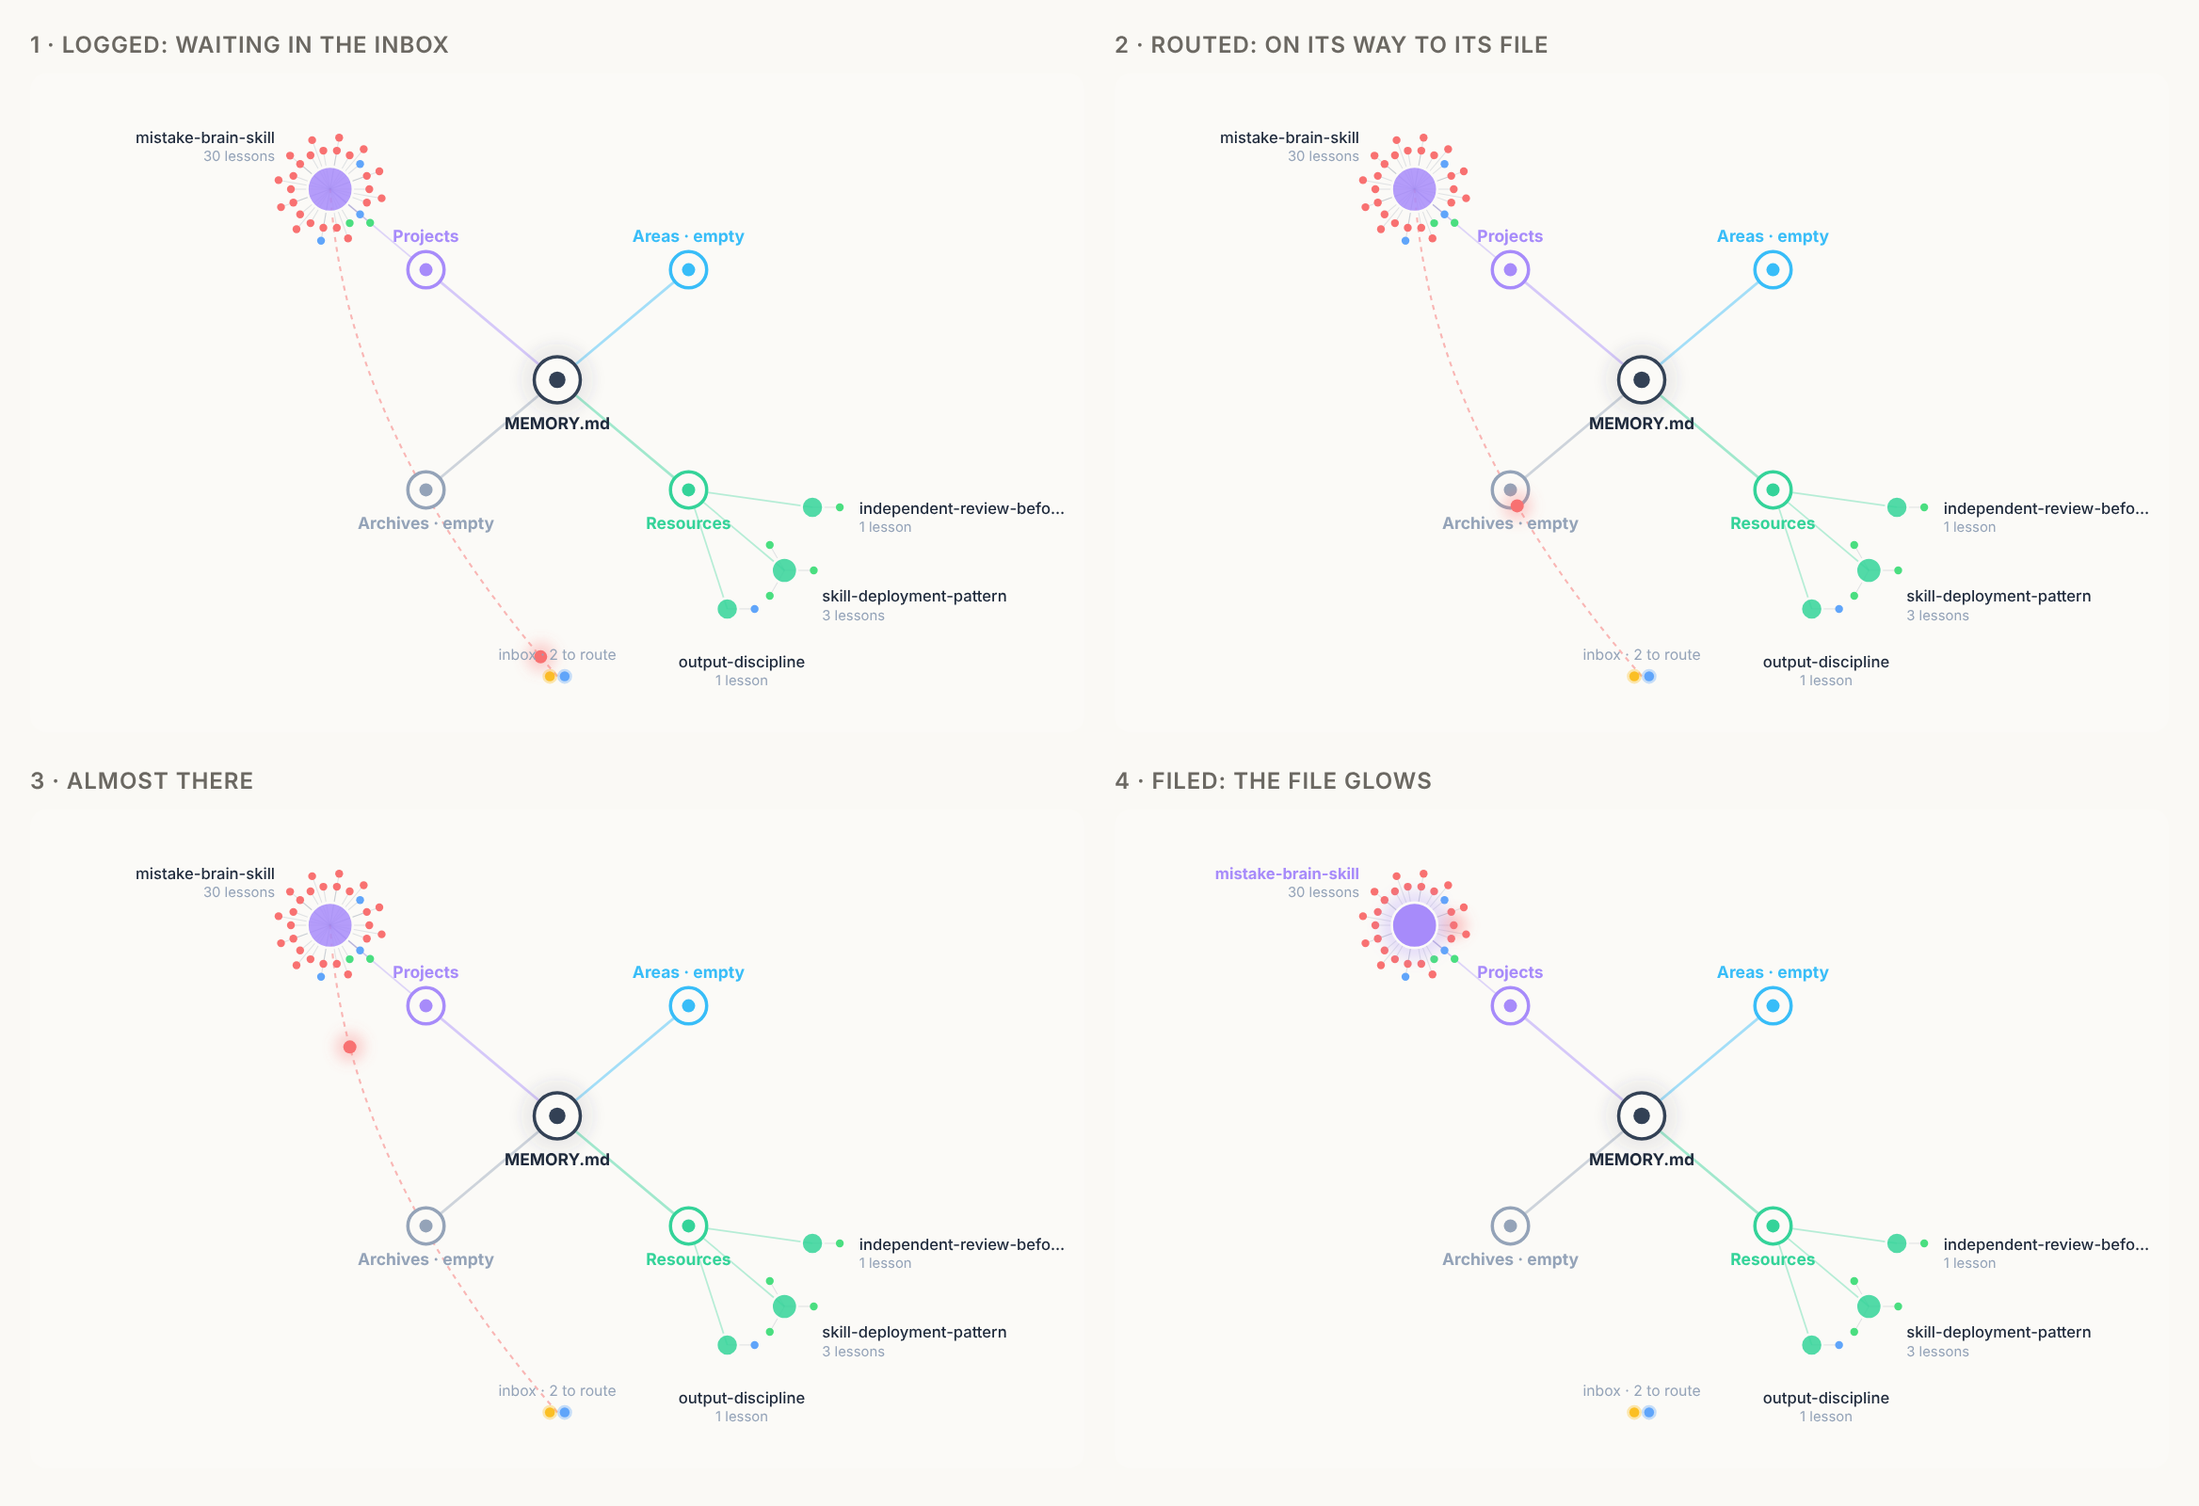
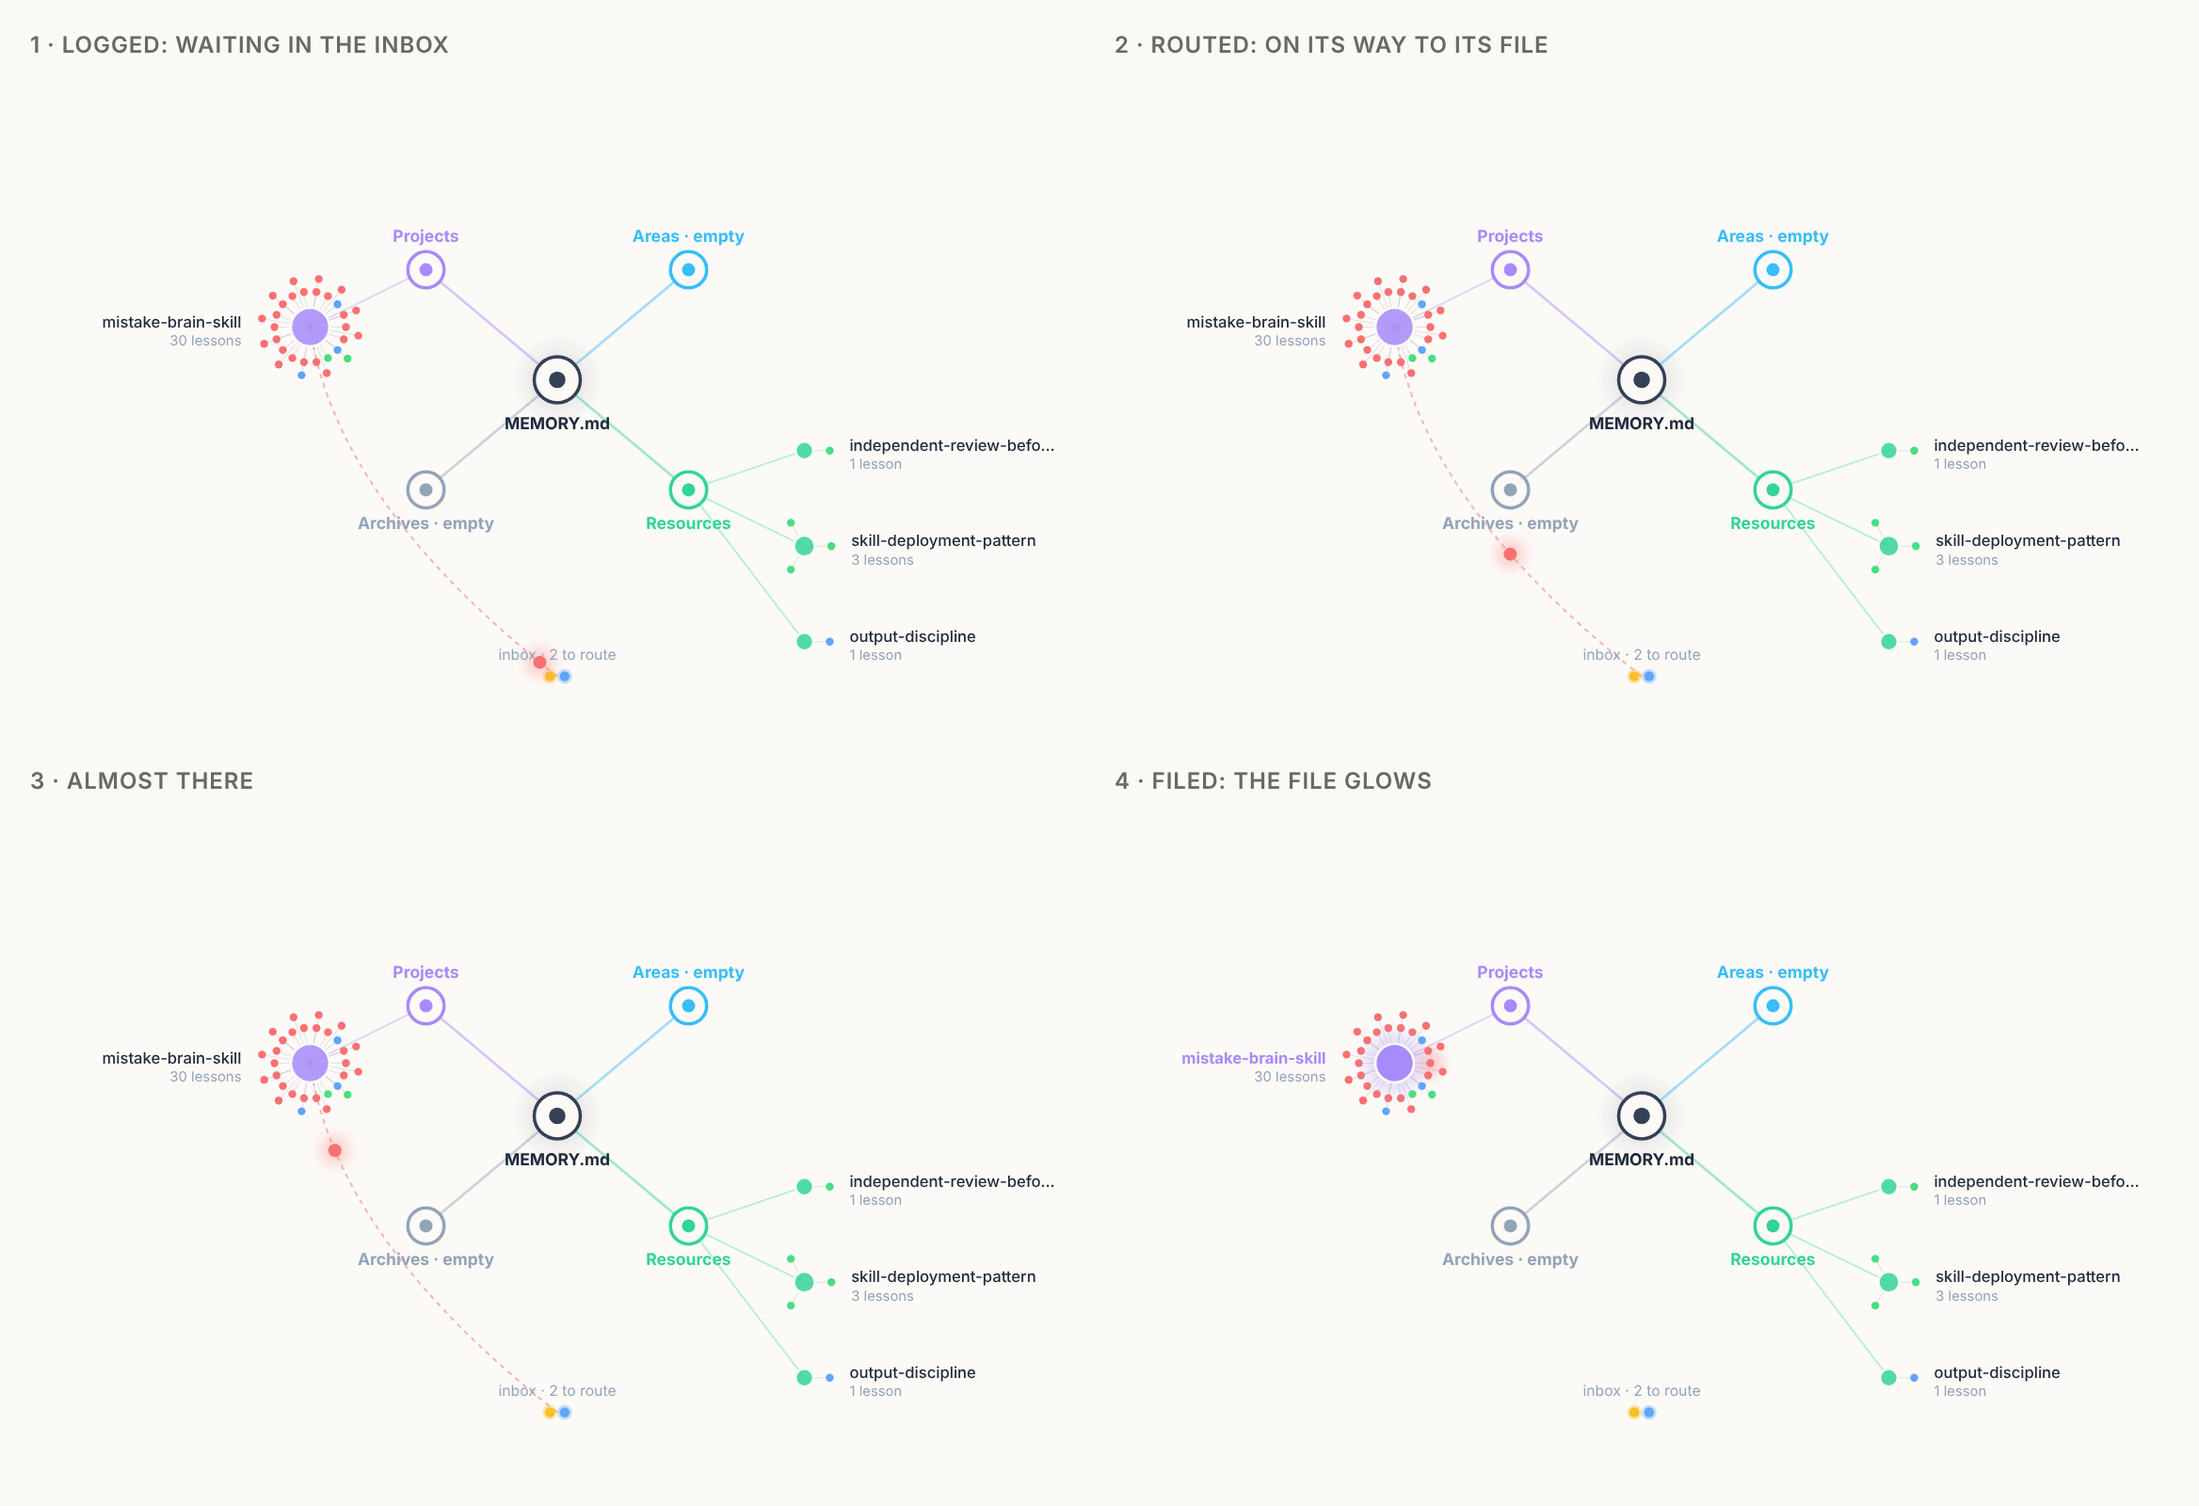
brain-hud: file columns in the graph, archives not "missing", link-aware index
From the pane in keshet-claude-skills (5 Areas, 7 Resources):
- Graph: each folder's files stand in a column on its outer side, one
  row per file, instead of a fan that let labels collide and run off the
  canvas. "N routed outside the folders" moves onto the inbox line.
- An Archives file is no longer reported missing from MEMORY.md, which
  only counts archives.
- The warning names the files missing from the index.
- Index lines may give the file as a markdown link or in backticks.
- README images regenerated with the new layout.

Claude-Session: https://claude.ai/code/session_01JhDtA2jSsNXc4mSZVHtjKT

diff --git a/plugins/brain-hud/hooks/graph.ts b/plugins/brain-hud/hooks/graph.ts
@@ -11,8 +11,6 @@ export const GRAPH = { width: 640, height: 400 }
 const FOLDERS: Folder[] = ['Projects', 'Areas', 'Resources', 'Archives']
 const HUB_ANGLE: Record<Folder, number> = { Projects: -140, Areas: -40, Resources: 40, Archives: 140 }
 const HUB_R = 104
-const FILE_R = 76
-const SPREAD = 32
 // What a large memory is cut to, so nothing runs off the canvas or piles up: files per folder (the
 // ones with the most lessons, and the one just written to), dots per file, dots in the inbox.
 const MAX_FILES = 7
@@ -20,13 +18,16 @@ const MAX_RINGS = 3
 const PER_RING = 18
 const MAX_INBOX = 30
 
-// Where file j of n sits around its folder's hub, and the angle it hangs at; the fan never wraps.
+// Where file j of n sits: in a column on its folder's outer side (Projects and Archives left, Areas
+// and Resources right), spread evenly down that folder's half of the canvas, its label facing out.
+// A column keeps every label on its own row, however many files a folder holds (up to MAX_FILES).
+const COLUMN_X = 150
 function filePos(cx: number, cy: number, folder: Folder, j: number, n: number) {
-  const [hx, hy] = at(cx, cy, HUB_ANGLE[folder], HUB_R)
-  const step = Math.min(SPREAD, 300 / Math.max(1, n - 1))
-  const deg = HUB_ANGLE[folder] + (n > 1 ? (j - (n - 1) / 2) * step : 0)
-  const [x, y] = at(hx, hy, deg, FILE_R)
-  return { x, y, deg }
+  const right = folder === 'Areas' || folder === 'Resources'
+  const top = folder === 'Projects' || folder === 'Areas'
+  const [lo, hi] = top ? [14, cy - 12] : [cy + 14, GRAPH.height - 26]
+  const y = n === 1 ? (top ? hi - 20 : lo + 20) : lo + ((hi - lo) * (j + 0.5)) / n
+  return { x: right ? cx + COLUMN_X : cx - COLUMN_X, y, deg: right ? 0 : 180 }
 }
 const HUB_COLOR: Record<Folder, string> = { Projects: '#a78bfa', Areas: '#38bdf8', Resources: '#34d399', Archives: '#94a3b8' }
 const TYPE_COLOR: Record<EntryType, string> = { mistake: '#f87171', success: '#4ade80', decision: '#60a5fa', handoff: '#fbbf24' }
@@ -93,7 +94,7 @@ export function graphSvg(b: Brain, opts: { theme: Theme; hot?: string; fresh?: n
     // Files fan out beyond the hub, away from the centre.
     files.forEach((l, j) => {
       const { x: fx, y: fy, deg } = filePos(cx, cy, folder, j, files.length)
-      const fr = 5 + Math.sqrt(Math.max(1, l.lessons)) * 1.6
+      const fr = 4 + Math.sqrt(Math.max(1, l.lessons)) * 1.4
       const hot = opts.hot === l.file
       edges += `<line x1="${f1(hx)}" y1="${f1(hy)}" x2="${f1(fx)}" y2="${f1(fy)}" stroke="${color}" stroke-opacity="0.35" stroke-width="1"/>`
       // Its entries: a ring of dots, linked by short spokes.
@@ -135,7 +136,7 @@ export function graphSvg(b: Brain, opts: { theme: Theme; hot?: string; fresh?: n
     if (i === opts.fresh) nodes += `<circle cx="${f1(ix - (Math.min(10, inbox.length) - 1) * 4.5 + col * 9)}" cy="${f1(iy + row * 9)}" r="10" fill="${TYPE_COLOR[e.type]}" fill-opacity="0.35" filter="url(#glow)"/>`
     nodes += `<circle cx="${f1(ix - (Math.min(10, inbox.length) - 1) * 4.5 + col * 9)}" cy="${f1(iy + row * 9)}" r="3" fill="${TYPE_COLOR[e.type]}" stroke="${TYPE_COLOR[e.type]}" stroke-opacity="0.35" stroke-width="3"/>`
   })
-  labels += `<text x="${ix}" y="${iy - 10}" font-size="9" fill="${P.dim}" text-anchor="middle">inbox · ${inbox.length} to route</text>`
+  labels += `<text x="${ix}" y="${iy - 10}" font-size="9" fill="${P.dim}" text-anchor="middle">inbox · ${inbox.length} to route${elsewhere ? ` · ${elsewhere} routed outside the folders` : ''}</text>`
   if (inbox.length > MAX_INBOX) labels += `<text x="${f1(ix + 52)}" y="${iy + 21}" font-size="9" fill="${P.dim}">+${inbox.length - MAX_INBOX}</text>`
 
   // Rules promoted from the memory, above the centre.
@@ -151,7 +152,6 @@ export function graphSvg(b: Brain, opts: { theme: Theme; hot?: string; fresh?: n
   nodes += `<circle cx="${cx}" cy="${cy}" r="14" fill="${P.bg}" stroke="${P.core}" stroke-width="2"/>`
   nodes += `<circle cx="${cx}" cy="${cy}" r="5" fill="${P.core}"/>`
   labels += `<text x="${cx}" y="${cy + 30}" font-size="10" font-weight="700" fill="${P.label}" text-anchor="middle">MEMORY.md</text>`
-  if (elsewhere) labels += `<text x="${cx}" y="${cy + 42}" font-size="8.5" fill="${P.dim}" text-anchor="middle">${elsewhere} routed outside the folders</text>`
 
   // A new entry travelling from the inbox to its file.
   if (opts.travelling) {

diff --git a/plugins/brain-hud/tests/brain.test.tsx b/plugins/brain-hud/tests/brain.test.tsx
@@ -81,6 +81,16 @@ describe('reading the memory', () => {
     ])
   })
 
+  test('index lines may name their file as a markdown link or in backticks', () => {
+    const m = parseMemory('## Areas\n- [Area] [loop-guard.md](Areas/loop-guard.md) — loop notes (3 lessons, last updated 2026-10-25)\n- [Area] `Areas/model-router.md` — routing\n')
+    expect(m.folders.Areas.map(l => [l.file, l.summary, l.lessons])).toEqual([['loop-guard.md', 'loop notes', 3], ['model-router.md', 'routing', 0]])
+  })
+
+  test('an Archives file is not missing from the index, which only counts archives', () => {
+    const f = withListing(parseMemory(MEMORY).folders, { Archives: [{ file: 'old.md', lessons: 1, updated: '', summary: '' }] })
+    expect(f.Archives).toEqual([{ file: 'old.md', summary: '', lessons: 1, updated: '', isIndexed: true }])
+  })
+
   test("followups' Start prompt: ids, titles and bugs", () => {
     expect(parseStartPrompt('Work on:\n- id k1-a: Fix the upload (bug) — fails 1 in 5 [where: up.ts:4]\n- id k2-b: Update the docs')).toEqual([
       { id: 'k1-a', title: 'Fix the upload', isBug: true },
@@ -187,6 +197,24 @@ describe('the graph', () => {
     const svg = graphSvg(b, { theme: 'dark' })
     expect(svg).toContain('inbox · 1 to route')
     expect(svg).toContain('1 routed outside the folders')
+  })
+
+  test("a folder's files stand in a column on its outer side, one label row each", () => {
+    const files = Array.from({ length: 7 }, (_, k) => ({ file: `res-${k}.md`, summary: '', lessons: 1, updated: '', isIndexed: true }))
+    const b: Brain = { ...parseMemory(MEMORY), folders: { Projects: [], Areas: files.map(l => ({ ...l, file: `a-${l.file}` })), Resources: files, Archives: [] }, entries: [] }
+    const svg = graphSvg(b, { theme: 'dark' })
+    const rows = (prefix: string) => [...svg.matchAll(new RegExp(`<text x="([\\d.]+)" y="([\\d.]+)"[^>]*>${prefix}res-\\d<`, 'g'))].map(m => [Number(m[1]), Number(m[2])] as [number, number])
+    for (const [prefix, below] of [['a-', false], ['', true]] as const) {
+      const r = rows(prefix)
+      expect(r).toHaveLength(7)
+      // Same x (a column, to the right of the centre), rows at least a label apart, all on the canvas.
+      expect(new Set(r.map(([x]) => x)).size).toBe(1)
+      expect(r[0]![0]).toBeGreaterThan(GRAPH.width / 2)
+      const ys = r.map(([, y]) => y).sort((p, q) => p - q)
+      for (let k = 1; k < ys.length; k++) expect(ys[k]! - ys[k - 1]!).toBeGreaterThanOrEqual(20)
+      expect(ys[0]!).toBeGreaterThan(below ? GRAPH.height / 2 - 20 : 0)
+      expect(ys.at(-1)!).toBeLessThan(below ? GRAPH.height : GRAPH.height / 2)
+    }
   })
 
   test('a dark and a light palette', () => {
@@ -526,7 +554,7 @@ describe('in a session', () => {
     let text = await texts(pane)
     expect(text).toMatch(/index: \.agent-brain\/shared\/MEMORY\.md/)
     // output-discipline.md is on disk but not in the index.
-    expect(text).toMatch(/⚠ 1 PARA file is not in \.agent-brain\/shared\/MEMORY\.md\./)
+    expect(text).toMatch(/⚠ 1 PARA file is not in \.agent-brain\/shared\/MEMORY\.md: output-discipline\.md/)
     await pane.unmount()
     delete files['.agent-brain/shared/MEMORY.md']
     await $.command.run({ command: 'brain' } as never)

diff --git a/plugins/brain-hud/hooks/brain.ts b/plugins/brain-hud/hooks/brain.ts
@@ -34,6 +34,9 @@ export function parseMistakes(text: string): Entry[] {
   return out
 }
 
+// The file an index line names: a path, a `path` in backticks, or a markdown link [name](path).
+const fileOf = (ref: string) => (/\]\(([^)]+)\)/.exec(ref)?.[1] ?? ref).replace(/[`*]/g, '').replace(/^.*[\\/]/, '')
+
 const empty = (): Record<Folder, Lesson[]> => ({ Projects: [], Areas: [], Resources: [], Archives: [] })
 
 // MEMORY.md: `- [Project] Projects/x.md — summary (N lessons, last updated YYYY-MM-DD)` per file
@@ -58,7 +61,7 @@ export function parseMemory(text: string): Omit<Brain, 'entries'> {
       if (!m) continue
       const tail = /\s*\((\d+) lessons?(?:,\s*last updated (\d{4}-\d{2}-\d{2}))?\)\s*$/.exec(m[2]!)
       folders[section as Folder].push({
-        file: m[1]!.replace(/^.*\//, ''),
+        file: fileOf(m[1]!),
         summary: (tail ? m[2]!.slice(0, tail.index) : m[2]!).trim(),
         lessons: tail ? Number(tail[1]) : 0,
         updated: tail?.[2] ?? '',
@@ -108,7 +111,8 @@ export function withListing(folders: Record<Folder, Lesson[]>, onDisk: Partial<R
     const named = new Set(folders[f].map(l => l.file))
     const extra = [...disk.values()]
       .filter(d => !named.has(d.file))
-      .map(d => ({ file: d.file, summary: d.summary, lessons: Math.max(0, d.lessons), updated: d.updated, isIndexed: false }))
+      // Archives are only counted in MEMORY.md, never listed: one there isn't missing from it.
+      .map(d => ({ file: d.file, summary: d.summary, lessons: Math.max(0, d.lessons), updated: d.updated, isIndexed: f === 'Archives' }))
     out[f] = [...folders[f].map(counted), ...extra]
   }
   return out

diff --git a/plugins/brain-hud/hooks/register.tsx b/plugins/brain-hud/hooks/register.tsx
@@ -404,11 +404,12 @@ export const register: Register = on => {
     const fresh = (title: string) => (p && (p.title === title || p.file === title) ? '✦ ' : '')
     const waiting = unrouted(b)
     // Where the index came from, said whenever it explains what the graph shows.
-    const unindexed = FOLDERS.reduce((n, f) => n + b.folders[f].filter(l => !l.isIndexed).length, 0)
+    const missing = FOLDERS.flatMap(f => b.folders[f].filter(l => !l.isIndexed).map(l => l.file))
+    const unindexed = missing.length
     const problem = b.index === null
       ? `No index found: neither ${MEMORY_PATHS.join(' nor ')} exists, so no lessons are counted.`
       : unindexed
-        ? `${unindexed} PARA file${unindexed === 1 ? ' is' : 's are'} not in ${b.index}.`
+        ? `${unindexed} PARA file${unindexed === 1 ? ' is' : 's are'} not in ${b.index}: ${missing.slice(0, 3).join(', ')}${unindexed > 3 ? ', …' : ''}`
         : ''
 
     return (

diff --git a/README.md b/README.md
@@ -231,7 +231,7 @@ The [mistake-brain](https://github.com/Keshet-Broadcasting/agent-brain-org) skil
 
   In the terminal the scene is a text face, e.g. `🧠ϟ(>_<)` for a mistake. A write through Claude's Edit or Write shows at once; a change from anywhere else (the skill's own hooks, a script) is picked up within a few seconds.
 - **A Brain pane** (opens by itself on the first change of a session, and any time with `/brain`) shows the memory. One line on top counts the lessons and the entries still unrouted. Lessons are counted from the PARA files themselves (one per `## [date] title` heading), so the count is right even when `MEMORY.md` is missing or its lines have no lesson counts; the index gives each file's summary. When the index explains an odd picture, a warning under it says so: no `MEMORY.md` found (then no lessons are counted), or PARA files on disk that it doesn't list. The bottom line names the `MEMORY.md` it read. That is mistake-brain's index in the project (`.agent-brain/shared/MEMORY.md`, or the older `.claude/agent-memory/claude/MEMORY.md`), not Claude Code's own memory file under `~/.claude`.
-  - **On desktop, a knowledge graph.** `MEMORY.md` sits at the centre, linked to the four PARA folders, each folder to its files (bigger the more lessons they hold), and every `MISTAKES.md` entry is a dot, colored by type, linked to the file it was routed to (its `PARA route`). Entries not routed yet wait in an inbox cluster with no link, as many as the unrouted count; an entry routed somewhere the graph has no node for (a rule, say) is counted under `MEMORY.md` instead. When an entry is routed, its dot travels from the inbox to its file and the file glows; a new entry glows where it lands. The layout is fixed, so the graph doesn't jump between refreshes, and its palette follows the theme in `/config` (dark unless it's a light theme).
+  - **On desktop, a knowledge graph.** `MEMORY.md` sits at the centre, linked to the four PARA folders, each folder to its files (bigger the more lessons they hold), and every `MISTAKES.md` entry is a dot, colored by type, linked to the file it was routed to (its `PARA route`). Entries not routed yet wait in an inbox cluster with no link, as many as the unrouted count; an entry routed somewhere the graph has no node for (a rule, say) is counted under `MEMORY.md` instead. When an entry is routed, its dot travels from the inbox to its file and the file glows; a new entry glows where it lands. Each folder's files stand in a column on its outer side, one row per file, so labels never meet (up to 7 a folder, the rest as "+N more"). The layout is fixed, so the graph doesn't jump between refreshes, and its palette follows the theme in `/config` (dark unless it's a light theme).
   - **Below the graph, and alone in the terminal, a tree:**
     - **📥 Inbox**: the 3 newest `MISTAKES.md` entries, colored by type, with their status.
     - **📁 Projects, Areas, Resources** and **🗄 Archives**: each PARA file with its lesson count and date, counted from the file; the file that just changed shows its summary too. A file on disk that `MEMORY.md` doesn't name shows as *not in MEMORY.md*, the gap the skill's dream fixes.
